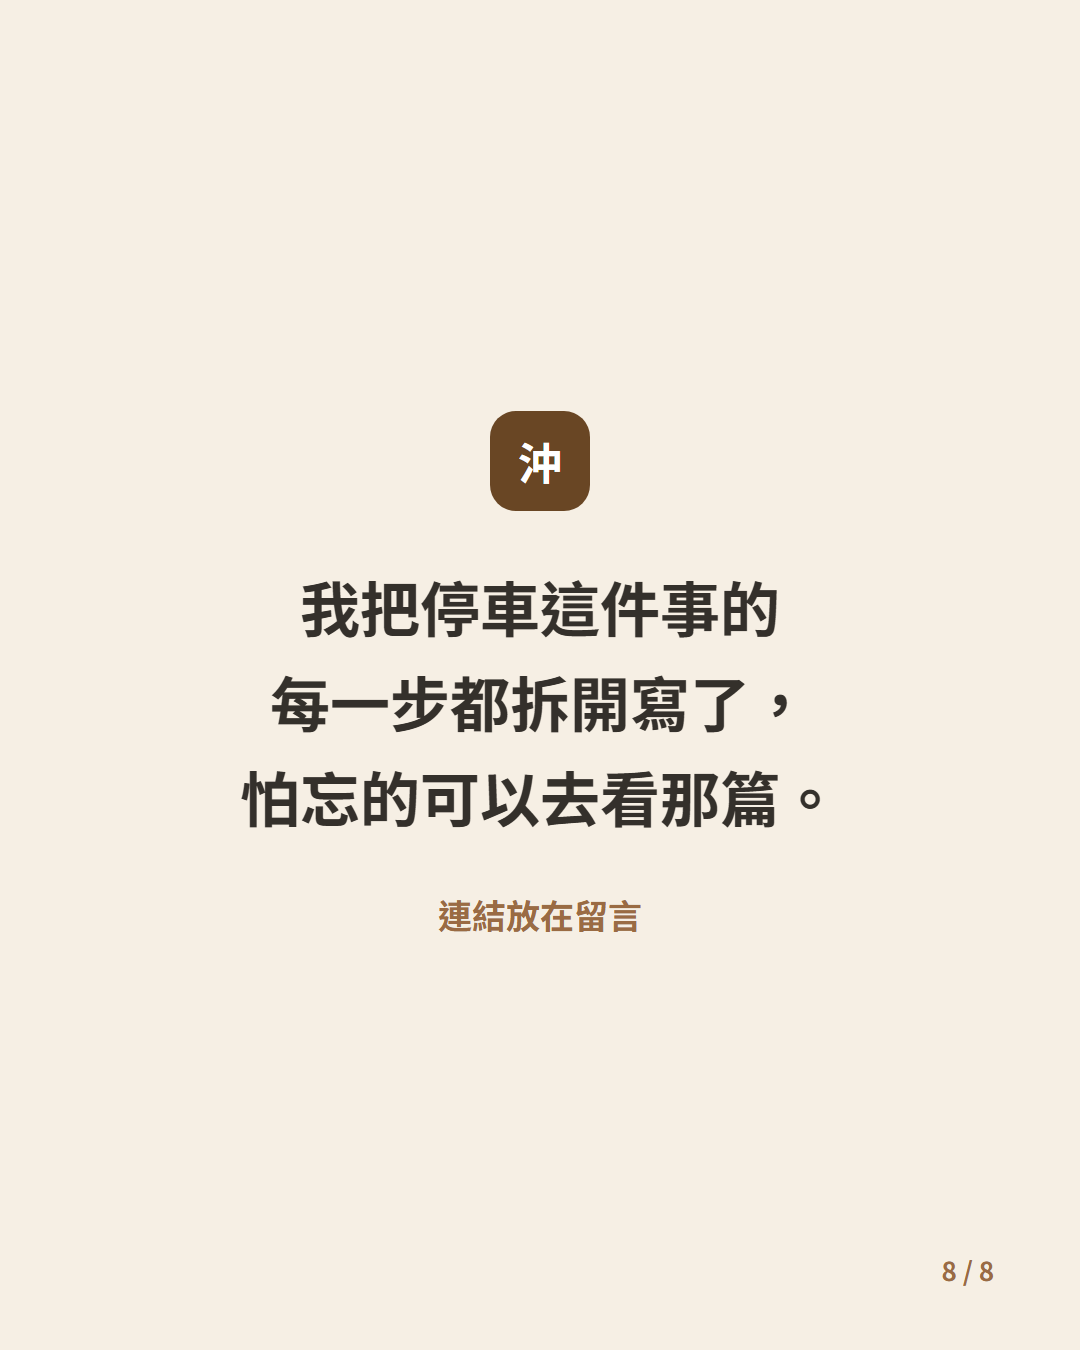
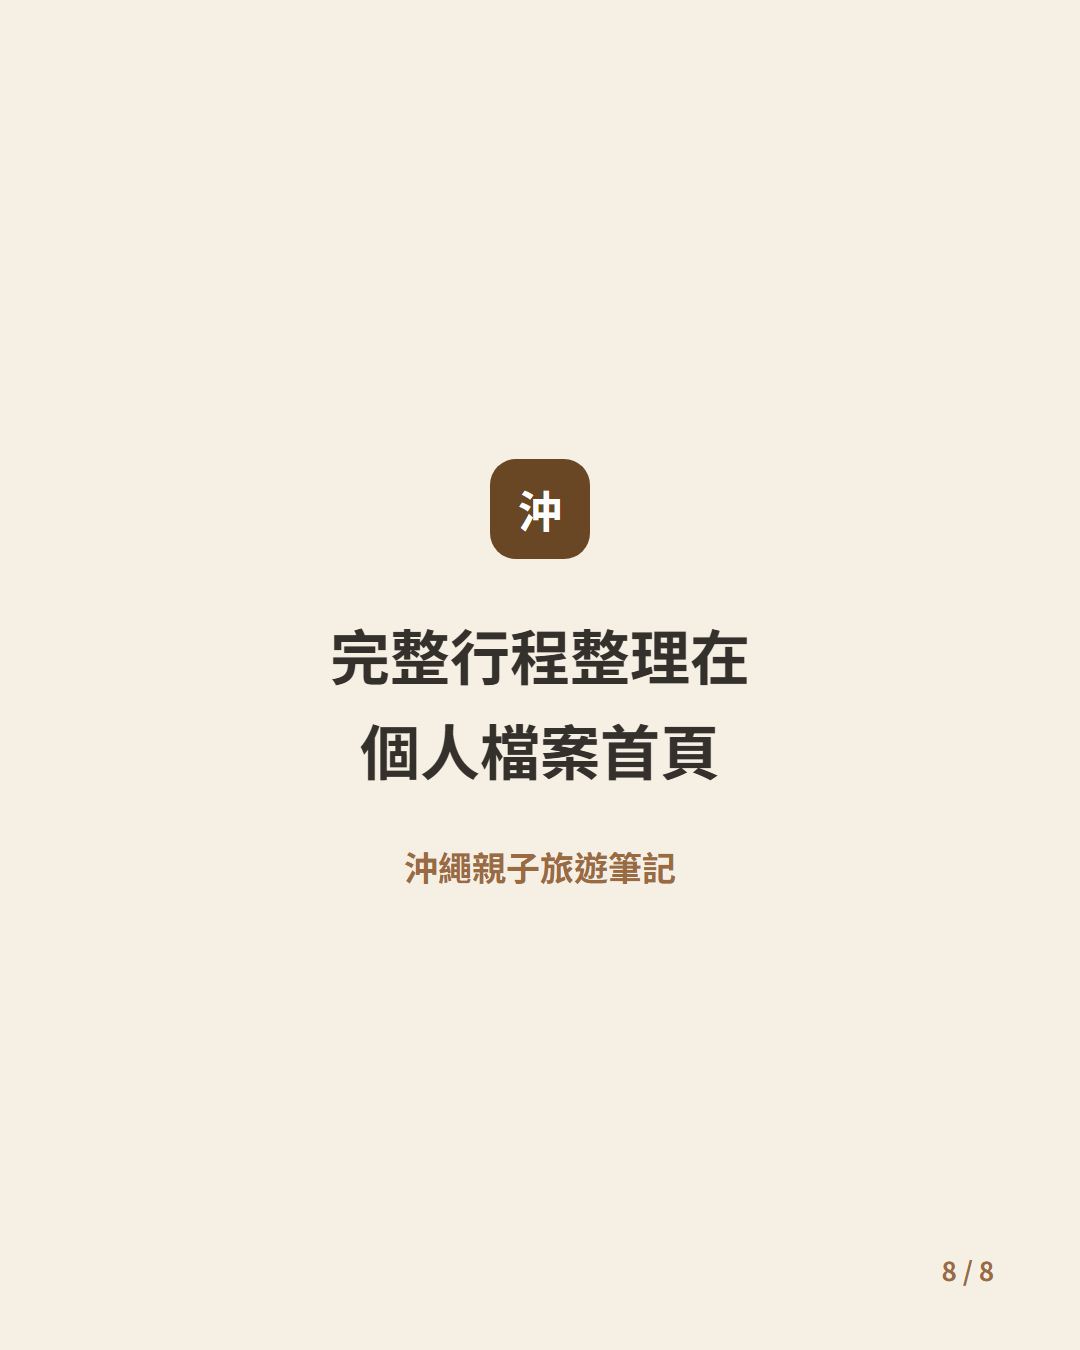
Make the closing slide a fixed card pointing at the profile link hub
Same wording on every topic instead of a per-post CTA, so the last frame
becomes recognisable across the feed.

Changed region(s): [[0.2139, 0.28, 0.7333, 0.7156]]

diff --git a/work/social/okinawa-family-parking-guide/render/carousel.html b/work/social/okinawa-family-parking-guide/render/carousel.html
@@ -239,8 +239,8 @@
 <div class="label">P8 CTA</div>
 <section class="slide cta" id="p8">
   <div class="badge">沖</div>
-  <div class="msg">我把停車這件事的<br>每一步都拆開寫了，<br>怕忘的可以去看那篇。</div>
-  <div class="url">連結放在留言</div>
+  <div class="msg">完整行程整理在<br>個人檔案首頁</div>
+  <div class="url">沖繩親子旅遊筆記</div>
   <div class="pg">8 / 8</div>
 </section>
 

diff --git a/work/social/okinawa-family-parking-guide/carousel.md b/work/social/okinawa-family-parking-guide/carousel.md
@@ -134,13 +134,13 @@
 
 | 元素 | 內容 |
 | --- | --- |
-| 主文（FB 版） | 我把停車這件事的每一步都拆開寫了，怕忘的可以去看那篇。 |
-| 主文（IG 版） | 這張表建議存手機相簿，現場沒訊號也看得到。 |
-| 副文（FB 版） | 連結放在留言 |
-| 副文（IG 版） | 連結在個人檔案 |
+| 主文 | 完整行程整理在個人檔案首頁 |
+| 副文 | 沖繩親子旅遊筆記 |
 | 底 | `#F6EFE4`，主文 60px `#34302B`，副文 34px `#9A6B43` |
 
-**注意**：FB 與 IG 的 P8 是唯一需要出兩個版本的頁。其餘 7 頁共用。
+**這頁改成固定的結尾卡**，所有主題共用同一句，不再每篇重寫，也不再分 FB／IG 兩版。8 張全部共用。
+
+前提：個人檔案首頁要有一個彙整入口（link hub 或置頂），否則點過去會撲空。
 
 **不在圖上印網址**。圖片上的網址不可點，還會讓版面像廣告；改成指出連結在哪裡（留言／個人檔案），實際連結放在該平台真正可點的位置。
 